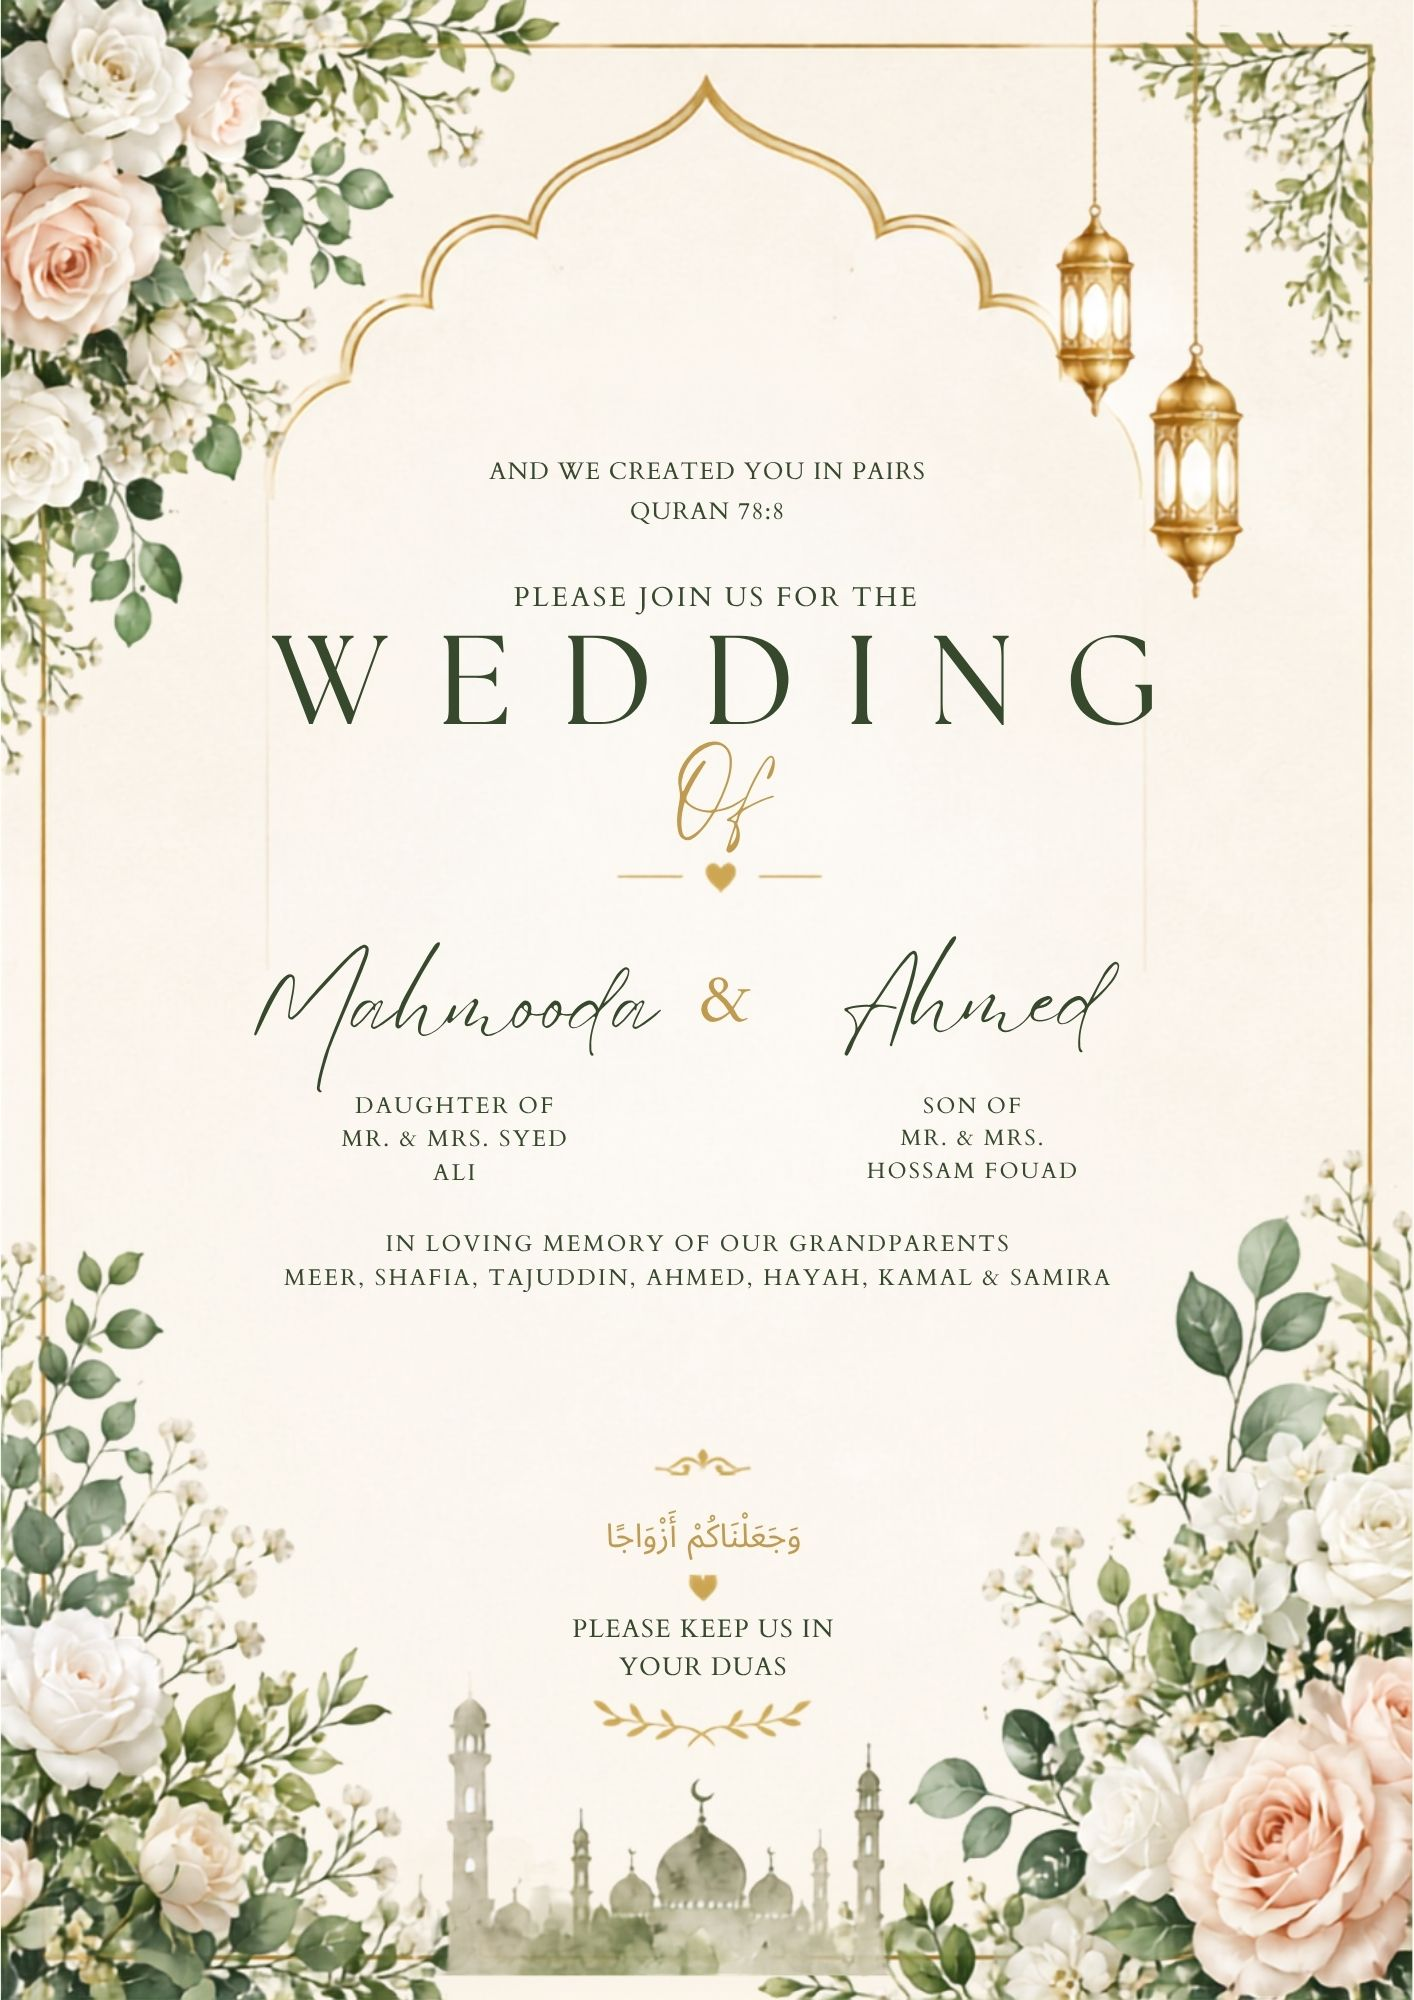
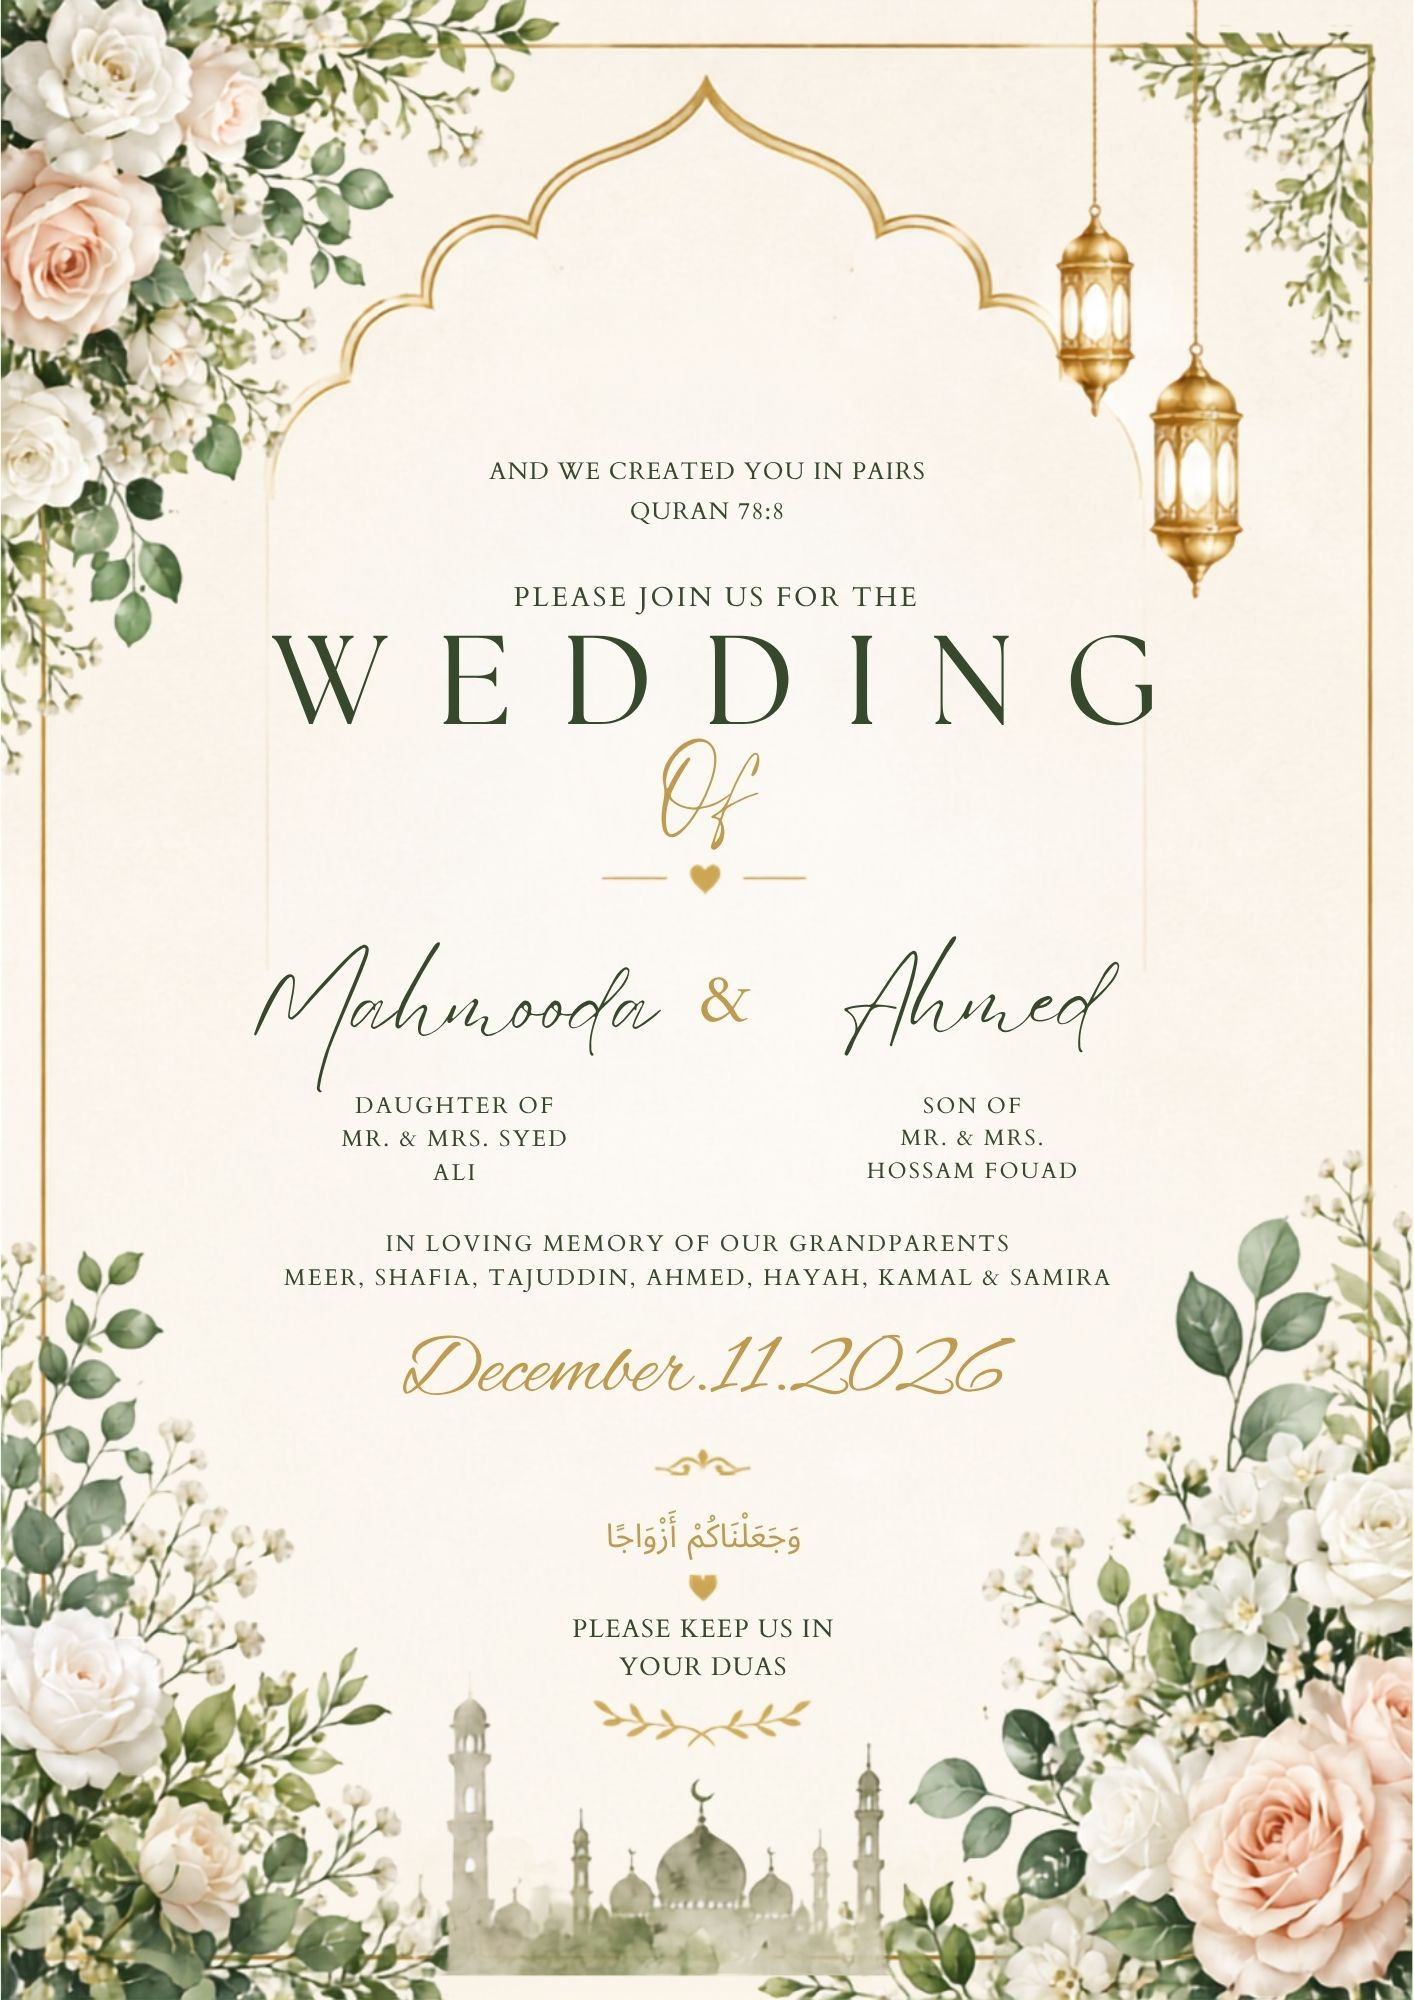
added gift links and updated invite

Changed region(s): [[0.2801, 0.651, 0.7157, 0.713], [0.4668, 0.372, 0.5601, 0.465]]

diff --git a/gifts.html b/gifts.html
@@ -27,12 +27,11 @@
       toward our Hajj and honeymoon fund.
     </p>
 
-    <!--
-      Add a payment method below if you'd like guests to be able to
-      contribute online (Venmo, Zelle, PayPal, etc.) — for example:
-      <p><strong>Venmo:</strong> @your-handle</p>
-      Leave this section as-is to only mention the card box at the wedding.
-    -->
+    <div class="gift-links">
+      <a href="https://venmo.com/u/mood1799" target="_blank" rel="noopener" class="btn">Venmo</a>
+      <a href="https://paypal.me/mahmoodaali" target="_blank" rel="noopener" class="btn">PayPal</a>
+    </div>
+    <p class="gift-zelle">Zelle: 708-567-8469</p>
 
     <div class="divider">✻</div>
 

diff --git a/style.css b/style.css
@@ -309,6 +309,20 @@ a:hover { text-decoration: underline; }
   margin: 1.2rem 0 0;
 }
 
+.gift-links {
+  display: flex;
+  justify-content: center;
+  gap: 0.8rem;
+  flex-wrap: wrap;
+  margin: 1rem 0 0.4rem;
+}
+
+.gift-zelle {
+  font-size: 0.88rem;
+  color: #6b6152;
+  margin: 0.3rem 0 0;
+}
+
 .event-card h3 {
   font-size: 1.35rem;
   margin-bottom: 0.15rem;
